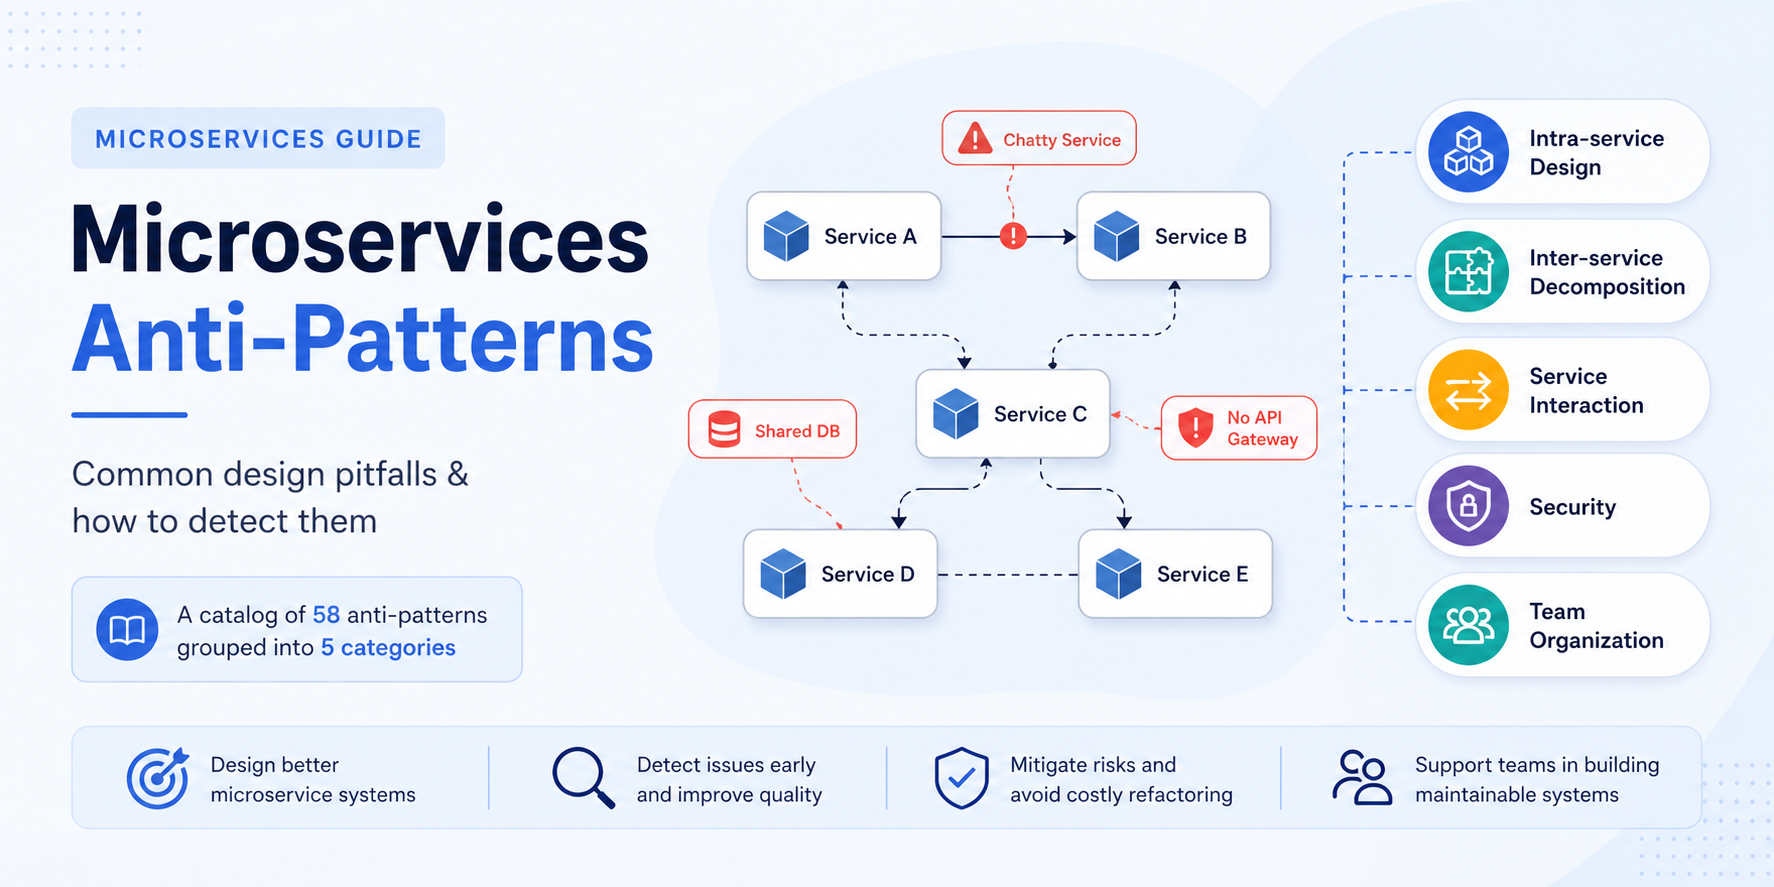
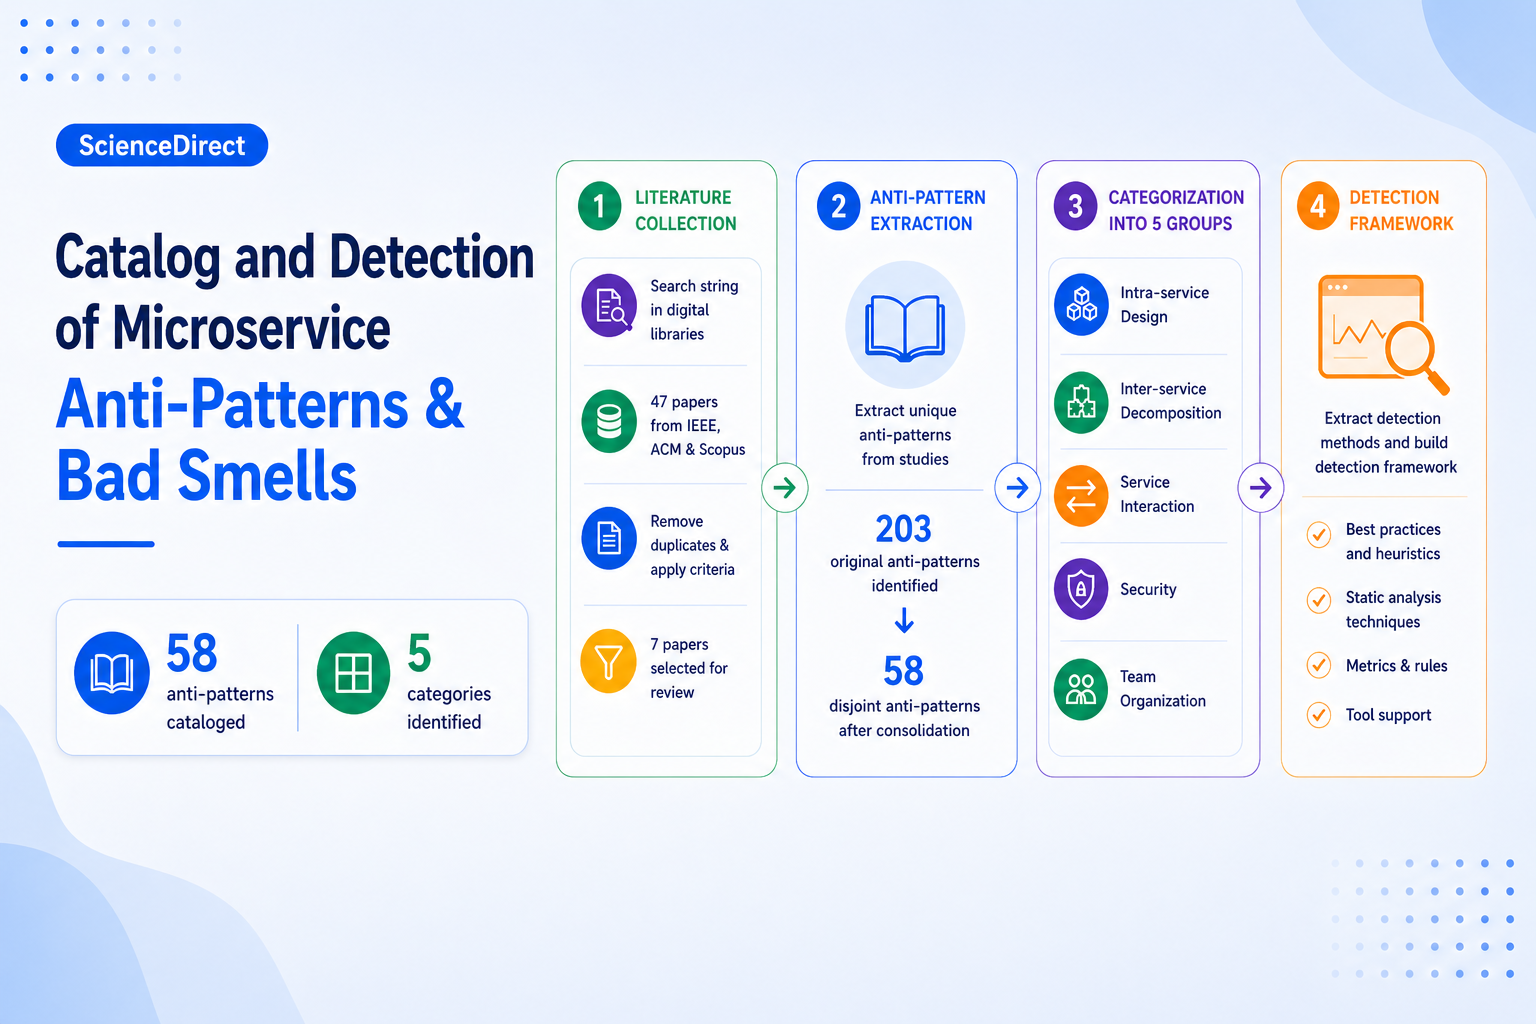
rebuilding site Sun Apr 26 03:24:30 CDT 2026

diff --git a/index.html b/index.html
@@ -1830,7 +1830,7 @@ problem-solving in <strong>C++</strong>. Served as <strong>Team Lead</strong> fo
   <div class="portfolio-grid-image">
     
     <a href="/publication/cerny-2023111829/" >
-      <img src="/publication/cerny-2023111829/Featured2_hua6a71d9a466f88daec7eda7eec2e9c27_1617059_600x400_fill_q90_h2_lanczos_center_3.webp" height="400" width="600"
+      <img src="/publication/cerny-2023111829/Featured_hu8121aad7877951699b2ca0ebd41b50a2_1587054_600x400_fill_q90_h2_lanczos_center_3.webp" height="400" width="600"
            alt="Catalog and detection techniques of microservice anti-patterns and bad smells: A tertiary study" loading="lazy">
     </a>
     <div class="portfolio-grid-overlay"></div>
@@ -1944,8 +1944,99 @@ problem-solving in <strong>C++</strong>. Served as <strong>Team Lead</strong> fo
   
   <div class="portfolio-grid-image">
     
+    <a href="/publication/9912621/" >
+      <img src="/publication/9912621/Featured_hu7d06b0e8c8bff7f9002c5d037022968a_1609094_600x400_fill_q90_h2_lanczos_center_3.webp" height="400" width="600"
+           alt="Microvision: Static analysis-based approach to visualizing microservices in augmented reality" loading="lazy">
+    </a>
+    <div class="portfolio-grid-overlay"></div>
+  </div>
+  
+
+  
+  <div class="portfolio-grid-content">
+    <h3 class="portfolio-grid-title">
+      <a href="/publication/9912621/" >Microvision: Static analysis-based approach to visualizing microservices in augmented reality</a>
+    </h3>
+
+    
+
+    
+    
+    <div class="portfolio-grid-tags">
+      
+      <span class="portfolio-grid-tag"></span>
+      
+    </div>
+    
+
+    
+    <div class="portfolio-grid-links">
+      
+
+
+
+
+
+
+
+
+  
+
+
+
+
+
+<a href="#" class="btn btn-outline-primary btn-page-header btn-sm js-cite-modal"
+        data-filename="/publication/9912621/cite.bib">
+  Cite
+</a>
+
+
+
+
+
+
+
+
+
+
+
+
+
+<a class="btn btn-outline-primary btn-page-header btn-sm" href="https://doi.org/10.1109/SOSE55356.2022.00012" target="_blank" rel="noopener">
+  DOI
+</a>
+
+
+
+    </div>
+    
+  </div>
+</div>
+
+      </div>
+    
+      <div class="project-card project-item">
+        
+
+
+
+
+
+
+
+
+
+
+
+
+<div class="portfolio-grid-card">
+  
+  
+  <div class="portfolio-grid-image">
+    
     <a href="/publication/9912631/" >
-      <img src="/publication/9912631/featured_hu22dba141a980db770743f9771d1dea78_982756_600x400_fill_q90_h2_lanczos_center_3.webp" height="400" width="600"
+      <img src="/publication/9912631/Featured_hu8121aad7877951699b2ca0ebd41b50a2_1456971_600x400_fill_q90_h2_lanczos_center_3.webp" height="400" width="600"
            alt="Using Microservice Telemetry Data for System Dynamic Analysis" loading="lazy">
     </a>
     <div class="portfolio-grid-overlay"></div>

diff --git a/publication/9912621/index.html b/publication/9912621/index.html
@@ -324,7 +324,6 @@
   
   
     
-    
   
   
 
@@ -333,7 +332,7 @@
     
     
   
-  <meta property="twitter:card" content="summary" />
+  <meta property="twitter:card" content="summary_large_image" />
   
     <meta property="twitter:site" content="@maruf2hin" />
     <meta property="twitter:creator" content="@maruf2hin" />
@@ -341,8 +340,8 @@
   <meta property="og:site_name" content="Maruf&#39;s" />
   <meta property="og:url" content="https://the-maruf.com/publication/9912621/" />
   <meta property="og:title" content="Microvision: Static analysis-based approach to visualizing microservices in augmented reality | Maruf&#39;s" />
-  <meta property="og:description" content="Microservices are supporting digital transformation; however, fundamental tools and system perspectives are missing to better observe, understand, and manage these systems, their properties, and their dependencies. Microservices architecture leans toward decentralization, which yields many advantages to system operation; it, however, brings challenges to their development. Microservices lack a system-centric perspective to better cope with system evolution and quality assessment. In this work, we explore microservice-specific architecture reconstruction based on static analysis. Such reconstruction typically results in system models to visualize selected system-centric perspectives. Conventional models are limited in utility when the service cardinality is high. We consider an alternative data visualization using 3D space using augmented reality. To begin testing the feasibility of deriving such perspectives from microservice systems, we developed and implemented prototype tools for software architecture reconstruction and visualization of compared perspectives." /><meta property="og:image" content="https://the-maruf.com/media/icon_hu55f686cf01b2571760ccbbe4ddc433b7_22664_512x512_fill_lanczos_center_3.png" />
-    <meta property="twitter:image" content="https://the-maruf.com/media/icon_hu55f686cf01b2571760ccbbe4ddc433b7_22664_512x512_fill_lanczos_center_3.png" /><meta property="og:locale" content="en-us" />
+  <meta property="og:description" content="Microservices are supporting digital transformation; however, fundamental tools and system perspectives are missing to better observe, understand, and manage these systems, their properties, and their dependencies. Microservices architecture leans toward decentralization, which yields many advantages to system operation; it, however, brings challenges to their development. Microservices lack a system-centric perspective to better cope with system evolution and quality assessment. In this work, we explore microservice-specific architecture reconstruction based on static analysis. Such reconstruction typically results in system models to visualize selected system-centric perspectives. Conventional models are limited in utility when the service cardinality is high. We consider an alternative data visualization using 3D space using augmented reality. To begin testing the feasibility of deriving such perspectives from microservice systems, we developed and implemented prototype tools for software architecture reconstruction and visualization of compared perspectives." /><meta property="og:image" content="https://the-maruf.com/publication/9912621/Featured.png" />
+    <meta property="twitter:image" content="https://the-maruf.com/publication/9912621/Featured.png" /><meta property="og:locale" content="en-us" />
   
     
       <meta
@@ -375,6 +374,10 @@
     "@id": "https://the-maruf.com/publication/9912621/"
   },
   "headline": "Microvision: Static analysis-based approach to visualizing microservices in augmented reality",
+  
+  "image": [
+    "https://the-maruf.com/publication/9912621/Featured.png"
+  ],
   
   "datePublished": "2024-01-10T07:30:02Z",
   "dateModified": "2024-01-10T01:30:02-06:00",
@@ -892,18 +895,25 @@
 
 
 
-  
+
+
+
+
+
+
+
+
 
   
   
-  
+
+
 <div class="article-container pt-3">
   <h1>Microvision: Static analysis-based approach to visualizing microservices in augmented reality</h1>
 
   
 
   
-    
 
 
 <div class="article-metadata">
@@ -951,7 +961,7 @@
 
 </div>
 
-    
+  
 
 
 
@@ -999,7 +1009,14 @@
 </div>
 
 
-  
+</div>
+
+
+<div class="article-header article-container featured-image-wrapper mt-4 mb-4" style="max-width: 720px; max-height: 480px;">
+  <div style="position: relative">
+    <img src="/publication/9912621/Featured_hu7d06b0e8c8bff7f9002c5d037022968a_1609094_720x2500_fit_q90_h2_lanczos_3.webp" width="720" height="480" alt="" class="featured-image">
+    
+  </div>
 </div>
 
 

diff --git a/publication/index.html b/publication/index.html
@@ -1028,7 +1028,7 @@
   
   <a href="/publication/cerny-2023111829/" >
     <div class="img-hover-zoom">
-      <img src="/publication/cerny-2023111829/Featured2_hua6a71d9a466f88daec7eda7eec2e9c27_1617059_808x455_fit_q90_h2_lanczos_3.webp" height="455" width="683"
+      <img src="/publication/cerny-2023111829/Featured_hu8121aad7877951699b2ca0ebd41b50a2_1587054_808x455_fit_q90_h2_lanczos_3.webp" height="455" width="683"
            class="article-banner" alt="Catalog and detection techniques of microservice anti-patterns and bad smells: A tertiary study" loading="lazy"
            style="object-fit: contain; width: 100%;">
     </div>
@@ -1328,7 +1328,7 @@
   
   <a href="/publication/9912631/" >
     <div class="img-hover-zoom">
-      <img src="/publication/9912631/featured_hu22dba141a980db770743f9771d1dea78_982756_808x455_fit_q90_h2_lanczos_3.webp" height="404" width="808"
+      <img src="/publication/9912631/Featured_hu8121aad7877951699b2ca0ebd41b50a2_1456971_808x455_fit_q90_h2_lanczos_3.webp" height="455" width="683"
            class="article-banner" alt="Using Microservice Telemetry Data for System Dynamic Analysis" loading="lazy"
            style="object-fit: contain; width: 100%;">
     </div>
@@ -1429,6 +1429,15 @@
 
   
   
+  
+  
+  <a href="/publication/9912621/" >
+    <div class="img-hover-zoom">
+      <img src="/publication/9912621/Featured_hu7d06b0e8c8bff7f9002c5d037022968a_1609094_808x455_fit_q90_h2_lanczos_3.webp" height="455" width="683"
+           class="article-banner" alt="Microvision: Static analysis-based approach to visualizing microservices in augmented reality" loading="lazy"
+           style="object-fit: contain; width: 100%;">
+    </div>
+  </a>
   
 
   <div class="section-subheading article-title mb-1 mt-3">

diff --git a/publication/9912631/index.html b/publication/9912631/index.html
@@ -340,8 +340,8 @@
   <meta property="og:site_name" content="Maruf&#39;s" />
   <meta property="og:url" content="https://the-maruf.com/publication/9912631/" />
   <meta property="og:title" content="Using Microservice Telemetry Data for System Dynamic Analysis | Maruf&#39;s" />
-  <meta property="og:description" content="Microservices bring various benefits to software systems. They also bring decentralization and lose coupling across self-contained system parts. Since these systems likely evolve in a decentralized manner, they need to be monitored to identify when possibly poorly designed extensions deteriorate the overall system quality. For monolith systems, such tasks have been commonly addressed through static analysis. However, given the decentralization and possible language diversity across microservices, static analysis tools are lacking. On the other hand, there are available tools commonly used by practitioners that offer centralized logging, tracing, and metric collection for microservices. In this paper, we assess the opportunity to combine current dynamic analysis tools with anomaly detection in the form of quality metrics and anti-patterns. We develop a tool prototype that we use to assess a large microservice system benchmark demonstrating the feasibility and potential of such an approach." /><meta property="og:image" content="https://the-maruf.com/publication/9912631/featured.png" />
-    <meta property="twitter:image" content="https://the-maruf.com/publication/9912631/featured.png" /><meta property="og:locale" content="en-us" />
+  <meta property="og:description" content="Microservices bring various benefits to software systems. They also bring decentralization and lose coupling across self-contained system parts. Since these systems likely evolve in a decentralized manner, they need to be monitored to identify when possibly poorly designed extensions deteriorate the overall system quality. For monolith systems, such tasks have been commonly addressed through static analysis. However, given the decentralization and possible language diversity across microservices, static analysis tools are lacking. On the other hand, there are available tools commonly used by practitioners that offer centralized logging, tracing, and metric collection for microservices. In this paper, we assess the opportunity to combine current dynamic analysis tools with anomaly detection in the form of quality metrics and anti-patterns. We develop a tool prototype that we use to assess a large microservice system benchmark demonstrating the feasibility and potential of such an approach." /><meta property="og:image" content="https://the-maruf.com/publication/9912631/Featured.png" />
+    <meta property="twitter:image" content="https://the-maruf.com/publication/9912631/Featured.png" /><meta property="og:locale" content="en-us" />
   
     
       <meta
@@ -376,7 +376,7 @@
   "headline": "Using Microservice Telemetry Data for System Dynamic Analysis",
   
   "image": [
-    "https://the-maruf.com/publication/9912631/featured.png"
+    "https://the-maruf.com/publication/9912631/Featured.png"
   ],
   
   "datePublished": "2024-01-10T07:30:02Z",
@@ -1011,9 +1011,9 @@
 </div>
 
 
-<div class="article-header article-container featured-image-wrapper mt-4 mb-4" style="max-width: 720px; max-height: 360px;">
+<div class="article-header article-container featured-image-wrapper mt-4 mb-4" style="max-width: 720px; max-height: 480px;">
   <div style="position: relative">
-    <img src="/publication/9912631/featured_hu22dba141a980db770743f9771d1dea78_982756_720x2500_fit_q90_h2_lanczos_3.webp" width="720" height="360" alt="" class="featured-image">
+    <img src="/publication/9912631/Featured_hu8121aad7877951699b2ca0ebd41b50a2_1456971_720x2500_fit_q90_h2_lanczos_3.webp" width="720" height="480" alt="" class="featured-image">
     
   </div>
 </div>

diff --git a/publication-type/1/index.html b/publication-type/1/index.html
@@ -962,6 +962,12 @@
   <div class="ml-3">
     
     
+    
+    <a href="/publication/9912621/" >
+      <img src="/publication/9912621/Featured_hu7d06b0e8c8bff7f9002c5d037022968a_1609094_150x0_resize_q90_h2_lanczos_3.webp" height="100" width="150"
+           alt="Microvision: Static analysis-based approach to visualizing microservices in augmented reality" loading="lazy">
+    </a>
+    
   </div>
 </div>
 
@@ -1017,7 +1023,7 @@
     
     
     <a href="/publication/9912631/" >
-      <img src="/publication/9912631/featured_hu22dba141a980db770743f9771d1dea78_982756_150x0_resize_q90_h2_lanczos_3.webp" height="75" width="150"
+      <img src="/publication/9912631/Featured_hu8121aad7877951699b2ca0ebd41b50a2_1456971_150x0_resize_q90_h2_lanczos_3.webp" height="100" width="150"
            alt="Using Microservice Telemetry Data for System Dynamic Analysis" loading="lazy">
     </a>
     

diff --git a/publication/cerny-2023111829/index.html b/publication/cerny-2023111829/index.html
@@ -340,8 +340,8 @@
   <meta property="og:site_name" content="Maruf&#39;s" />
   <meta property="og:url" content="https://the-maruf.com/publication/cerny-2023111829/" />
   <meta property="og:title" content="Catalog and detection techniques of microservice anti-patterns and bad smells: A tertiary study | Maruf&#39;s" />
-  <meta property="og:description" content="Background: Various works investigated microservice anti-patterns and bad smells in the past few years. We identified seven secondary publications that summarize these, but they have little overlap in purpose and often use different terms to describe the identified anti-patterns and smells. Objective: This work catalogs recurring bad design practices known as anti-patterns and bad smells for microservice architectures, and provides a classification into categories as well as methods for detecting these practices. Method: We conducted a systematic literature review in the form of a tertiary study targeting secondary studies identifying poor design practices for microservices. Results: We provide a comprehensive catalog of 58 disjoint anti-patterns, grouped into five categories, which we derived from 203 originally identified anti-patterns for microservices. Conclusion: The results provide a reference to microservice developers to design better-quality systems and researchers who aim to detect system quality based on anti-patterns. It also serves as an anti-pattern catalog for development-aiding tools, which are not currently available for microservice system development but could mitigate quality degradation throughout system evolution." /><meta property="og:image" content="https://the-maruf.com/publication/cerny-2023111829/Featured2.png" />
-    <meta property="twitter:image" content="https://the-maruf.com/publication/cerny-2023111829/Featured2.png" /><meta property="og:locale" content="en-us" />
+  <meta property="og:description" content="Background: Various works investigated microservice anti-patterns and bad smells in the past few years. We identified seven secondary publications that summarize these, but they have little overlap in purpose and often use different terms to describe the identified anti-patterns and smells. Objective: This work catalogs recurring bad design practices known as anti-patterns and bad smells for microservice architectures, and provides a classification into categories as well as methods for detecting these practices. Method: We conducted a systematic literature review in the form of a tertiary study targeting secondary studies identifying poor design practices for microservices. Results: We provide a comprehensive catalog of 58 disjoint anti-patterns, grouped into five categories, which we derived from 203 originally identified anti-patterns for microservices. Conclusion: The results provide a reference to microservice developers to design better-quality systems and researchers who aim to detect system quality based on anti-patterns. It also serves as an anti-pattern catalog for development-aiding tools, which are not currently available for microservice system development but could mitigate quality degradation throughout system evolution." /><meta property="og:image" content="https://the-maruf.com/publication/cerny-2023111829/Featured.png" />
+    <meta property="twitter:image" content="https://the-maruf.com/publication/cerny-2023111829/Featured.png" /><meta property="og:locale" content="en-us" />
   
     
       <meta
@@ -376,7 +376,7 @@
   "headline": "Catalog and detection techniques of microservice anti-patterns and bad smells: A tertiary study",
   
   "image": [
-    "https://the-maruf.com/publication/cerny-2023111829/Featured2.png"
+    "https://the-maruf.com/publication/cerny-2023111829/Featured.png"
   ],
   
   "datePublished": "2024-01-10T07:30:02Z",
@@ -1028,7 +1028,7 @@
 
 <div class="article-header article-container featured-image-wrapper mt-4 mb-4" style="max-width: 720px; max-height: 480px;">
   <div style="position: relative">
-    <img src="/publication/cerny-2023111829/Featured2_hua6a71d9a466f88daec7eda7eec2e9c27_1617059_720x2500_fit_q90_h2_lanczos_3.webp" width="720" height="480" alt="" class="featured-image">
+    <img src="/publication/cerny-2023111829/Featured_hu8121aad7877951699b2ca0ebd41b50a2_1587054_720x2500_fit_q90_h2_lanczos_3.webp" width="720" height="480" alt="" class="featured-image">
     
   </div>
 </div>

diff --git a/publication-type/2/index.html b/publication-type/2/index.html
@@ -910,7 +910,7 @@
     
     
     <a href="/publication/cerny-2023111829/" >
-      <img src="/publication/cerny-2023111829/Featured2_hua6a71d9a466f88daec7eda7eec2e9c27_1617059_150x0_resize_q90_h2_lanczos_3.webp" height="100" width="150"
+      <img src="/publication/cerny-2023111829/Featured_hu8121aad7877951699b2ca0ebd41b50a2_1587054_150x0_resize_q90_h2_lanczos_3.webp" height="100" width="150"
            alt="Catalog and detection techniques of microservice anti-patterns and bad smells: A tertiary study" loading="lazy">
     </a>
     

diff --git a/tag/anti-patterns/index.html b/tag/anti-patterns/index.html
@@ -910,7 +910,7 @@
     
     
     <a href="/publication/cerny-2023111829/" >
-      <img src="/publication/cerny-2023111829/Featured2_hua6a71d9a466f88daec7eda7eec2e9c27_1617059_150x0_resize_q90_h2_lanczos_3.webp" height="100" width="150"
+      <img src="/publication/cerny-2023111829/Featured_hu8121aad7877951699b2ca0ebd41b50a2_1587054_150x0_resize_q90_h2_lanczos_3.webp" height="100" width="150"
            alt="Catalog and detection techniques of microservice anti-patterns and bad smells: A tertiary study" loading="lazy">
     </a>
     

diff --git a/tag/antipatterns/index.html b/tag/antipatterns/index.html
@@ -910,7 +910,7 @@
     
     
     <a href="/publication/cerny-2023111829/" >
-      <img src="/publication/cerny-2023111829/Featured2_hua6a71d9a466f88daec7eda7eec2e9c27_1617059_150x0_resize_q90_h2_lanczos_3.webp" height="100" width="150"
+      <img src="/publication/cerny-2023111829/Featured_hu8121aad7877951699b2ca0ebd41b50a2_1587054_150x0_resize_q90_h2_lanczos_3.webp" height="100" width="150"
            alt="Catalog and detection techniques of microservice anti-patterns and bad smells: A tertiary study" loading="lazy">
     </a>
     

diff --git a/tag/bad-smells/index.html b/tag/bad-smells/index.html
@@ -910,7 +910,7 @@
     
     
     <a href="/publication/cerny-2023111829/" >
-      <img src="/publication/cerny-2023111829/Featured2_hua6a71d9a466f88daec7eda7eec2e9c27_1617059_150x0_resize_q90_h2_lanczos_3.webp" height="100" width="150"
+      <img src="/publication/cerny-2023111829/Featured_hu8121aad7877951699b2ca0ebd41b50a2_1587054_150x0_resize_q90_h2_lanczos_3.webp" height="100" width="150"
            alt="Catalog and detection techniques of microservice anti-patterns and bad smells: A tertiary study" loading="lazy">
     </a>
     

diff --git a/tag/microservices/index.html b/tag/microservices/index.html
@@ -910,7 +910,7 @@
     
     
     <a href="/publication/cerny-2023111829/" >
-      <img src="/publication/cerny-2023111829/Featured2_hua6a71d9a466f88daec7eda7eec2e9c27_1617059_150x0_resize_q90_h2_lanczos_3.webp" height="100" width="150"
+      <img src="/publication/cerny-2023111829/Featured_hu8121aad7877951699b2ca0ebd41b50a2_1587054_150x0_resize_q90_h2_lanczos_3.webp" height="100" width="150"
            alt="Catalog and detection techniques of microservice anti-patterns and bad smells: A tertiary study" loading="lazy">
     </a>
     

diff --git a/tag/software-maintenance/index.html b/tag/software-maintenance/index.html
@@ -910,7 +910,7 @@
     
     
     <a href="/publication/cerny-2023111829/" >
-      <img src="/publication/cerny-2023111829/Featured2_hua6a71d9a466f88daec7eda7eec2e9c27_1617059_150x0_resize_q90_h2_lanczos_3.webp" height="100" width="150"
+      <img src="/publication/cerny-2023111829/Featured_hu8121aad7877951699b2ca0ebd41b50a2_1587054_150x0_resize_q90_h2_lanczos_3.webp" height="100" width="150"
            alt="Catalog and detection techniques of microservice anti-patterns and bad smells: A tertiary study" loading="lazy">
     </a>
     